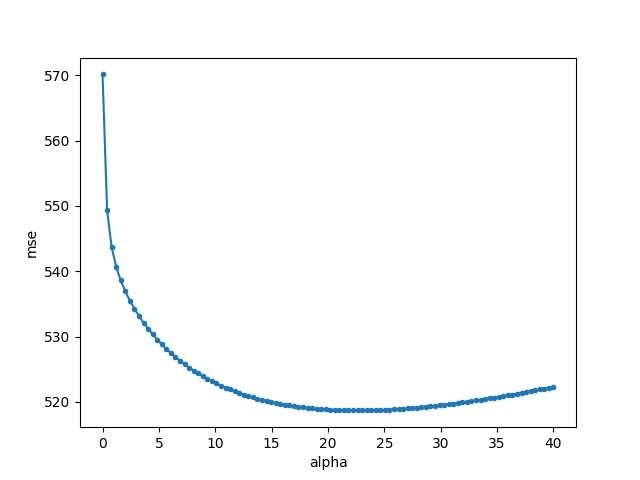
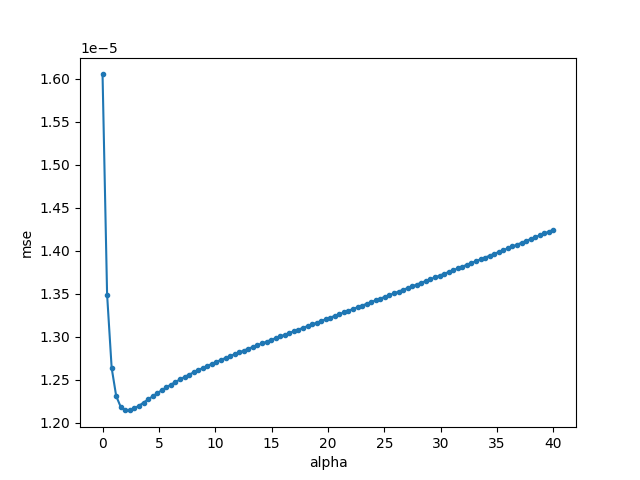
yes

diff --git a/projekt_2/regression_part_b.py b/projekt_2/regression_part_b.py
@@ -14,7 +14,7 @@ def train_test_lr(model, train_data, test_data):
 
     # Predict
     predictions = model.predict(test_data[0])
-    return mean_squared_error(predictions, test_data[1])
+    return mean_squared_error(predictions.reshape(-1), test_data[1].reshape(-1))
 
 def train_ann(hidden_nodes, data):
     # ANN parameters
@@ -72,9 +72,10 @@ def test_ann(model, data):
     return mean_squared_error(predictions_np, data[1])
 
 def get_baseline(train_data, test_data):
-    avg = np.average(train_data)
+    avg = np.mean(train_data)
     predictions = np.zeros(len(test_data)) + avg
-    return mean_squared_error(predictions, test_data)
+    print(mean_squared_error(predictions.reshape(-1), test_data.reshape(-1)))
+    return mean_squared_error(predictions.reshape(-1), test_data.reshape(-1))
 
 # initizialize the table
 table ="Outer fold,h,mse,alpha,mse,baseline\n"
@@ -85,7 +86,7 @@ outer_k = 10  # Outer K-fold
 inner_k = 10  # Inner K-fold for hyperparameter tuning
 
 # Alpha values
-alphas = np.linspace(0, 40, A) # aplha values used for regularization of linear model
+alphas = np.linspace(0, 20, A) # aplha values used for regularization of linear model
 
 # Store scores for each outer fold
 weighted_mse_estimate_ann = np.zeros(A)
@@ -109,7 +110,7 @@ length_of_outer_test_set = np.zeros(outer_k)
 
 
 # Prepare cross-validation (outer loop)
-outer_cv = model_selection.KFold(n_splits=outer_k, shuffle=True)
+outer_cv = model_selection.KFold(n_splits=outer_k, shuffle=False)
 
 # Outer Cross Validation
 for outer_fold, (train_index, test_index) in enumerate(outer_cv.split(st_X_reg, y_reg)):
@@ -120,7 +121,7 @@ for outer_fold, (train_index, test_index) in enumerate(outer_cv.split(st_X_reg, 
     
     length_of_outer_test_set[outer_fold] = len(y_test_outer)
     
-    inner_cv = model_selection.KFold(n_splits=inner_k, shuffle=True)
+    inner_cv = model_selection.KFold(n_splits=inner_k, shuffle=False)
     
     for j, (train_index_inner, test_index_inner) in enumerate(inner_cv.split(X_train_outer, y_train_outer)):
         # create inner training and testing data

diff --git a/projekt_2/regression_part_a.py b/projekt_2/regression_part_a.py
@@ -5,20 +5,18 @@ from sklearn import model_selection
 from sklearn.metrics import mean_squared_error
 A = 100
 K = 10
-K = 10
 error_per_fold = np.zeros(K)
 error_per_aplha = np.zeros(A)
 i = 0
 CV = model_selection.KFold(K, shuffle=False)
-CV = model_selection.KFold(K, shuffle=False)
-for alpha in np.linspace(0, 40, A):
+for alpha in np.linspace(0, 20, A):
     j = 0
     model = lm.Ridge(alpha=alpha)
-    for train_index, test_index in CV.split(st_X_reg, y_reg):
+    for train_index, test_index in CV.split(st_X_reg, st_y_reg):
         X_train = st_X_reg[train_index]
-        y_train = y_reg[train_index]
+        y_train = st_y_reg[train_index]
         X_test = st_X_reg[test_index]
-        y_test = y_reg[test_index]
+        y_test = st_y_reg[test_index]
         # Fit ordinary least squares regression model
         model.fit(X_train, y_train)
 
@@ -26,21 +24,21 @@ for alpha in np.linspace(0, 40, A):
         y_est = model.predict(X_test)
         error_per_fold[j] = mean_squared_error(y_test, y_est)
         j += 1
-    error_per_aplha[i] = np.sum(error_per_fold)
+    error_per_aplha[i] = np.mean(error_per_fold)
     i += 1
 
 # Display scatter plot
 plt.figure()
-plt.plot(np.linspace(0, 40, A), error_per_aplha, ".-")
+plt.plot(np.linspace(0, 20, A), error_per_aplha, ".-")
 plt.xlabel(f"alpha")
 plt.ylabel(f"mse")
-plt.savefig("plots/error_per_alpha.png")
+plt.savefig("projekt_2/plots/error_per_alpha.png")
 plt.show()
 
 index_of_lowest_error = np.where(error_per_aplha == min(error_per_aplha))[0]
-best_alpha = np.linspace(0, 40, A)[index_of_lowest_error]
+best_alpha = np.linspace(0, 20, A)[index_of_lowest_error]
 print(f"best alpha value is: {best_alpha}\nthe error at that alpha value is: {min(error_per_aplha)}")
 model = lm.Ridge(alpha=best_alpha)
 model.fit(st_X_reg, y_reg)
 coefficients = model.coef_
-print(coefficients, X.columns)
+print(coefficients, X_reg.columns)

diff --git a/projekt_2/data_loader.py b/projekt_2/data_loader.py
@@ -10,15 +10,18 @@ import os
 file_path = os.path.join("kindey_stone_urine_analysis.csv")
 data = pd.read_csv(file_path)
 data = data.sample(frac = 1)
-predicted_vaiable = "calc"
+predicted_vaiable = "gravity"
 X = data.drop([predicted_vaiable], axis=1)
+X_reg = X
 y_reg = data[predicted_vaiable]
-
 y_reg = np.array(y_reg).reshape(-1, 1)
 scalar = StandardScaler()
 st_X_reg = scalar.fit_transform(X)
+st_y_reg = scalar.fit_transform(y_reg)
+y_reg = st_y_reg
 
 data = pd.read_csv(file_path)
+data = data.sample(frac = 1)
 X = data.drop(["target"], axis=1)
 y_class = data["target"]
 st_X_class = scalar.fit_transform(X)
